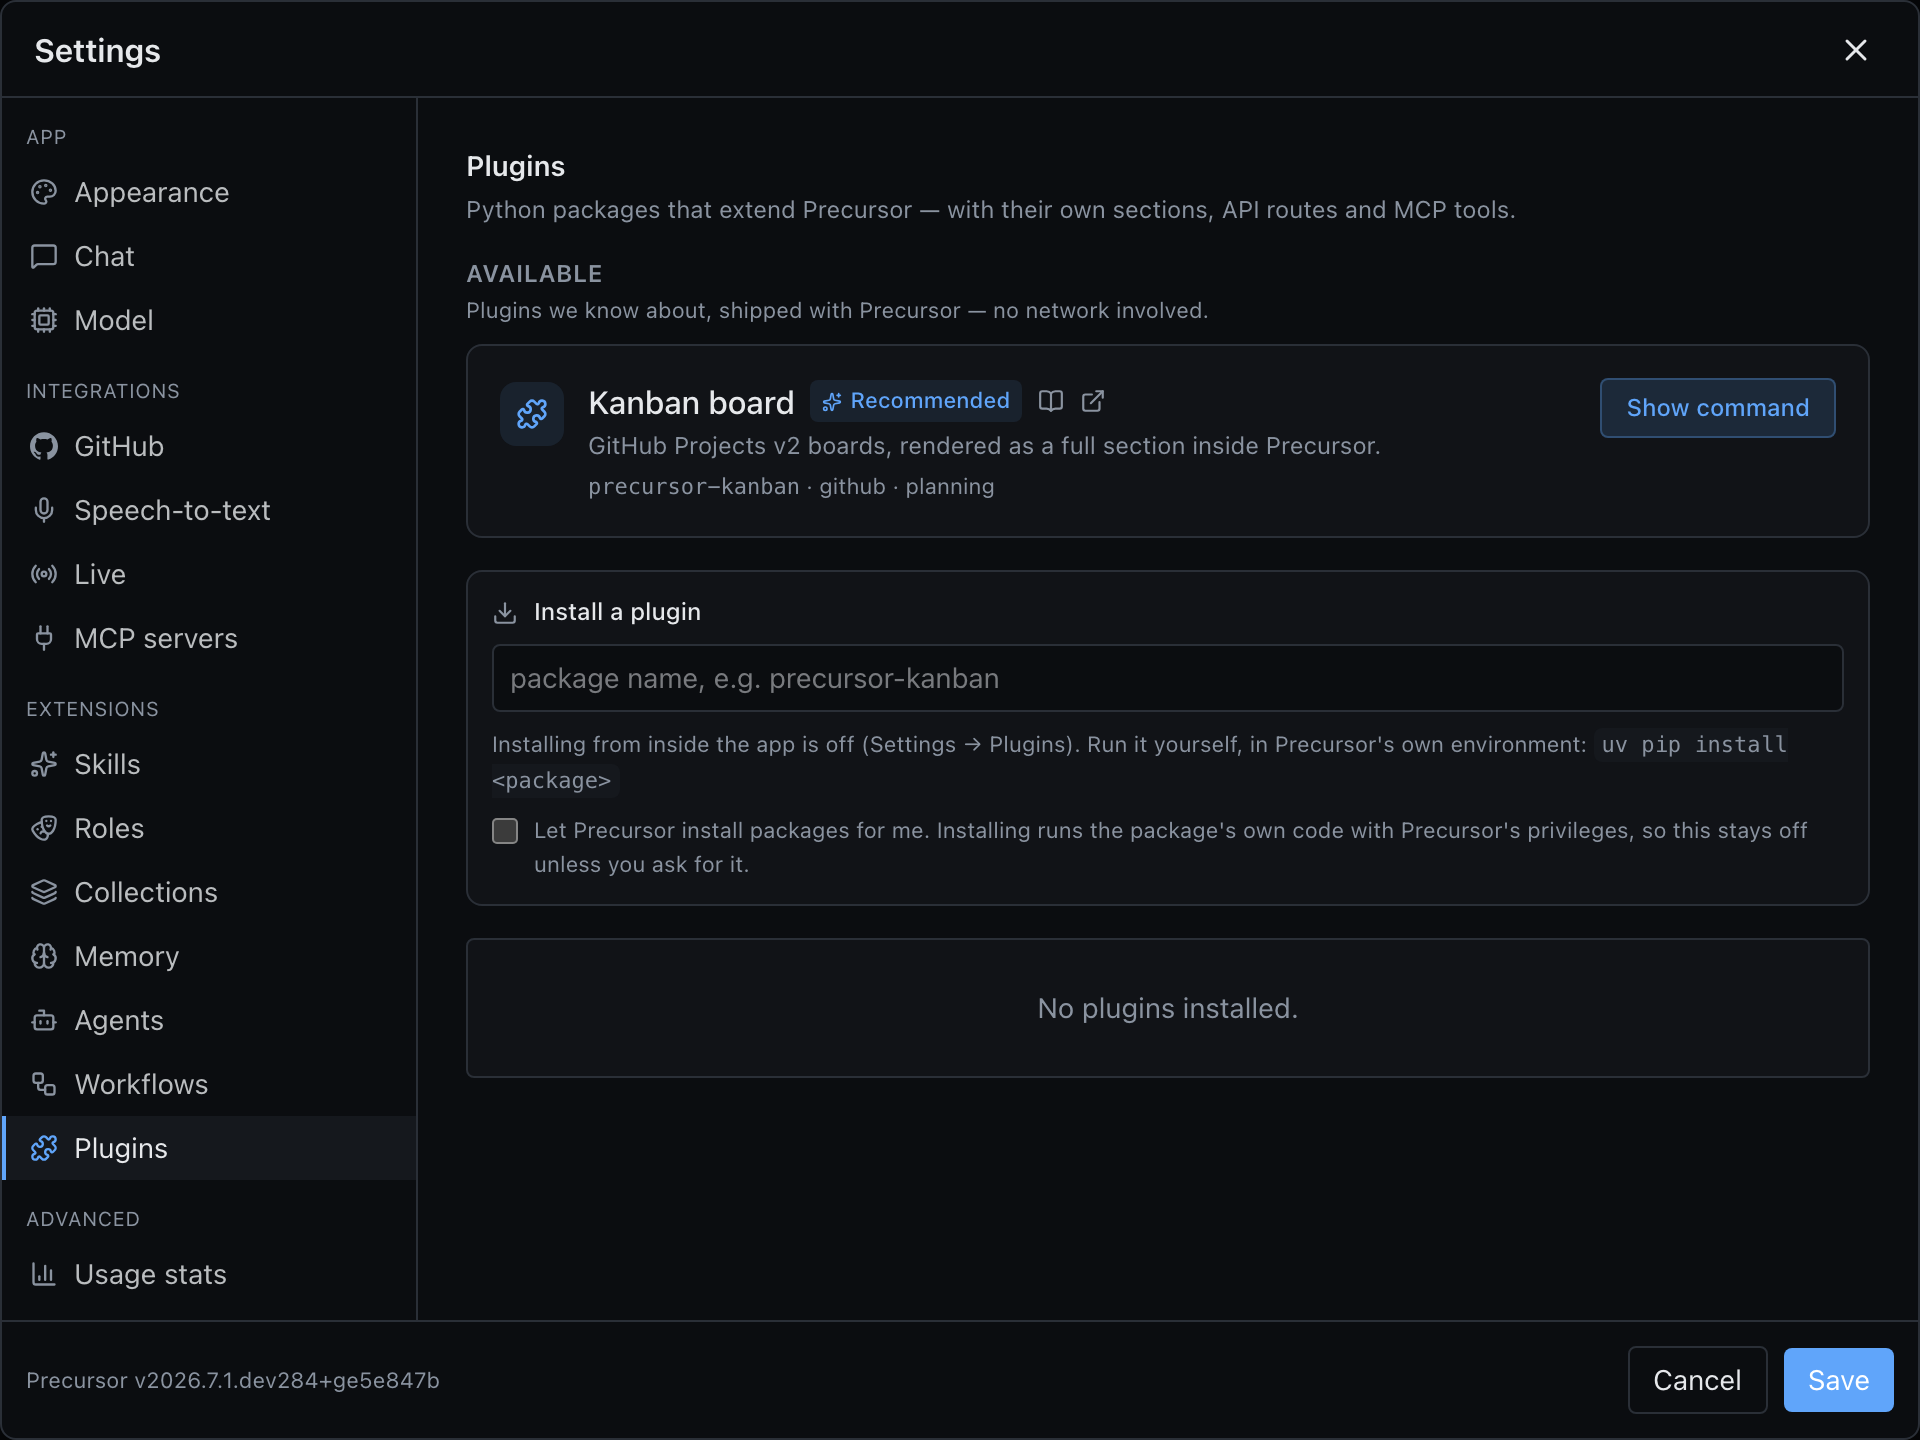
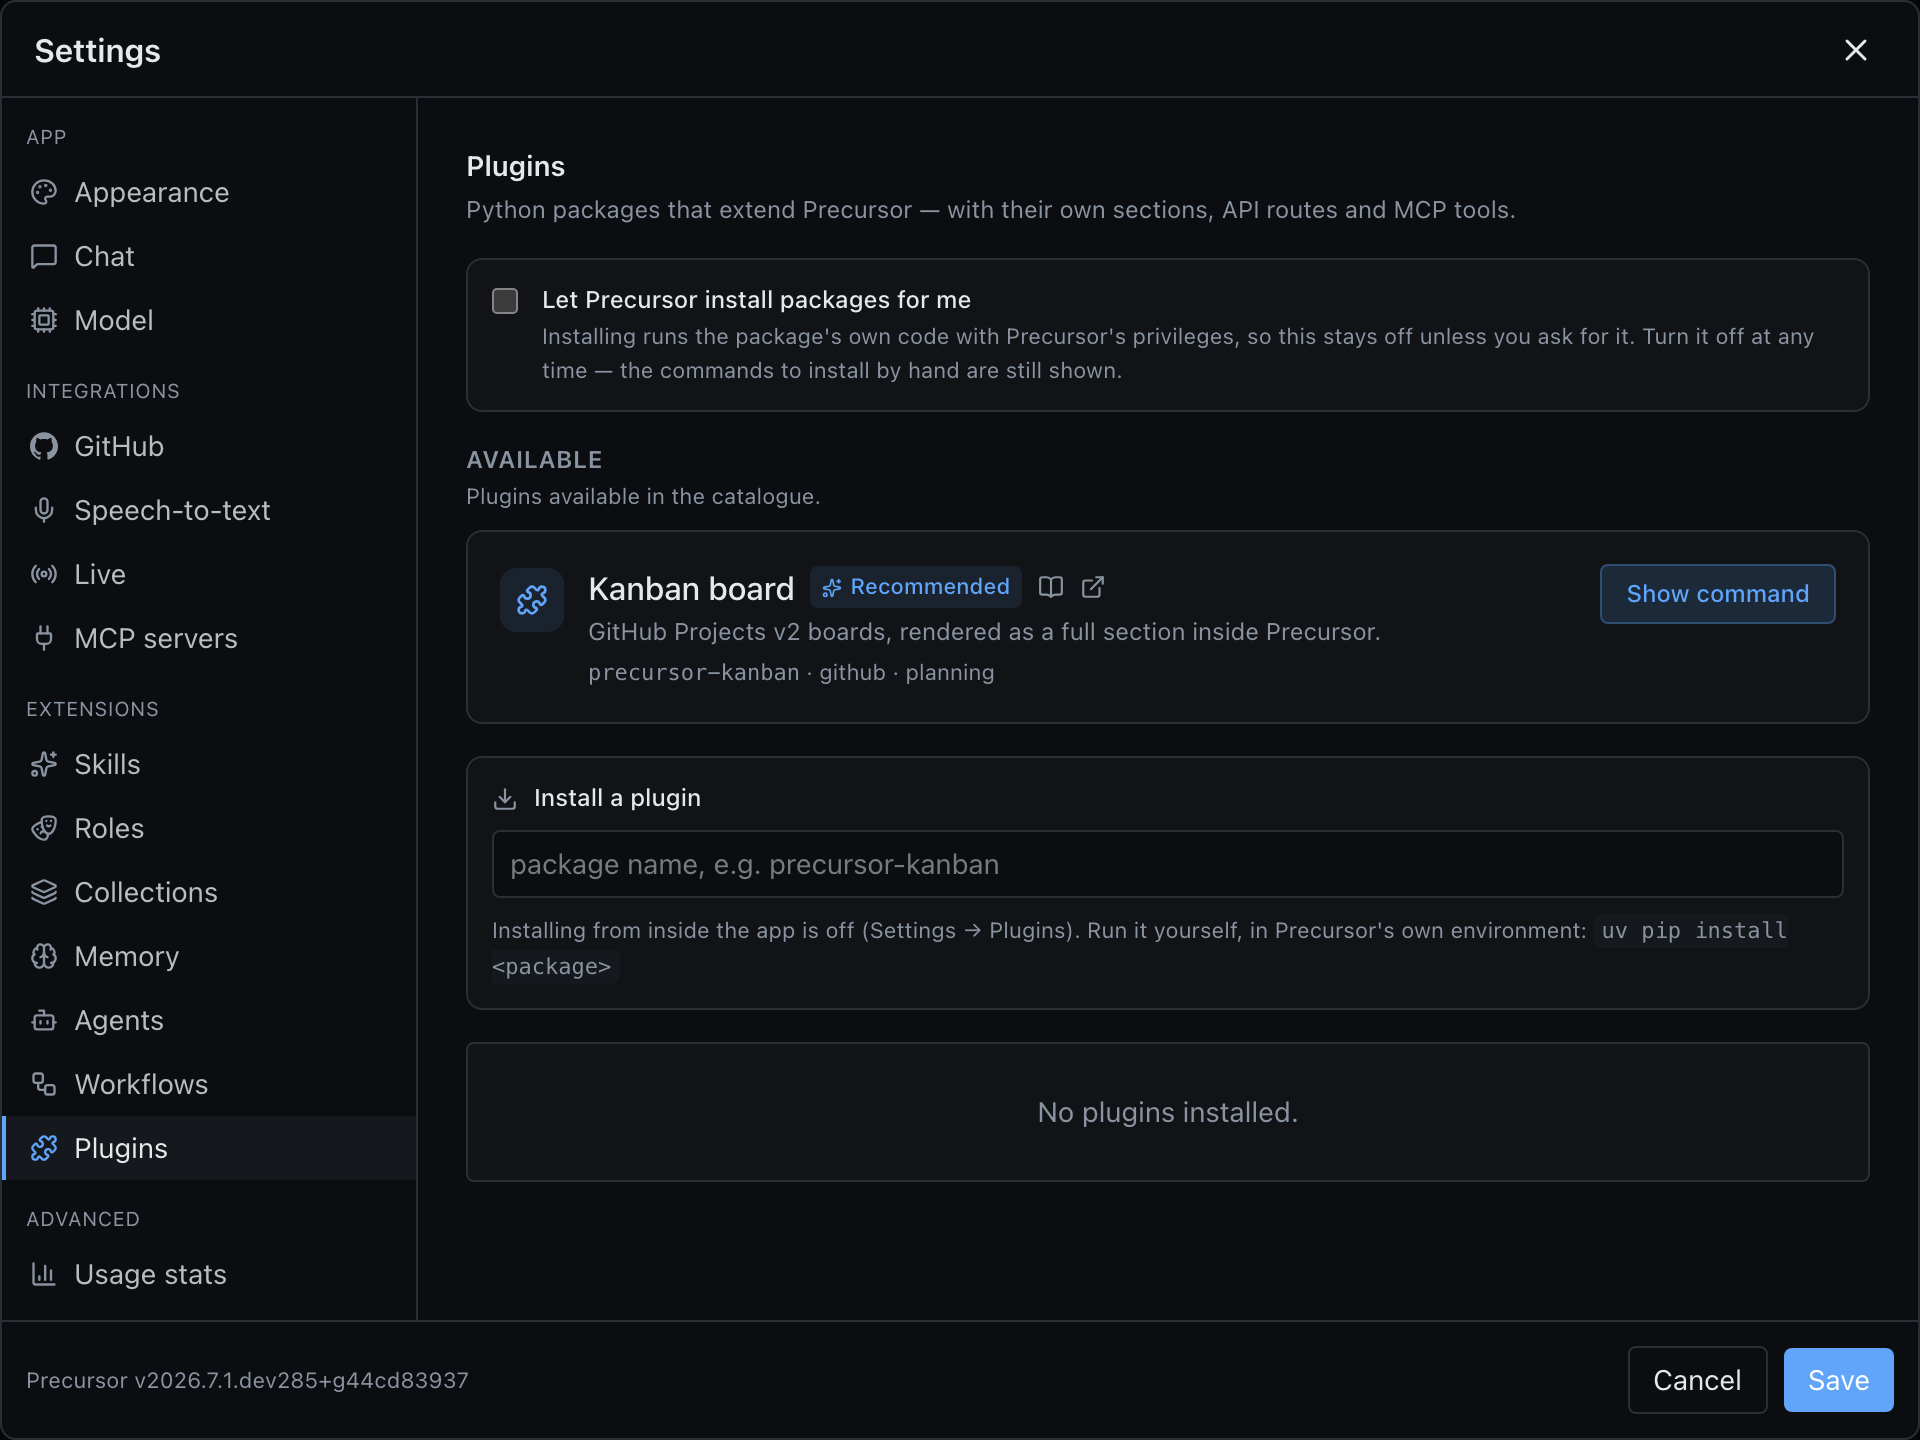
fix(plugins): make the install permission revocable, and simplify the catalogue copy
Two things the catalogue panel got wrong.

**The consent could be granted but never withdrawn.** The "Let Precursor
install packages for me" checkbox lived inside the install box and was rendered
*only while the permission was off*, with a hardcoded `checked={false}` and a
handler that could only ever write `true`. Ticking it therefore made the control
disappear, leaving no way back short of editing the settings table. Since the
thing it authorises is running a package's own code with Precursor's
privileges, that is precisely the switch that must stay reachable: a permission
you cannot revoke is not a permission. It now sits at the top of the panel as
its own row, reflects the current setting, and toggles both ways.

It still hides where the app could not install regardless — not on loopback, or
no installer present — because there is nothing to consent to there, and the
install box already explains that case in context.

**The catalogue's subtitle explained an implementation detail.** "Plugins we
know about, shipped with Precursor — no network involved" answered a question
nobody standing in the panel was asking. The fact that the catalogue is bundled
rather than fetched matters — it is why an entry is reviewed before it ships —
but it belongs in the docs, which say it. The list now just says what it is.

Copilot-Session: 098cc4a9-f80f-423a-a487-50223fcf3742

diff --git a/frontend/src/components/PluginsSettings.tsx b/frontend/src/components/PluginsSettings.tsx
@@ -67,18 +67,21 @@ export function PluginsSettings() {
   }, [load]);
 
   /**
-   * Turn the in-app installer on.
+   * Turn the in-app installer on or off.
    *
    * Off by default because installing a package runs its code with Precursor's
    * privileges and the app has no authentication of its own — so this is an
-   * explicit, deliberate act rather than something a stray request can do.
+   * explicit, deliberate act rather than something a stray request can do. It
+   * is also revocable: the consent lives at the top of the panel and stays
+   * visible once granted, because permission you can grant but not withdraw is
+   * not really permission.
    */
-  async function enableInstalling() {
+  async function setInstallPermission(enabled: boolean) {
     try {
-      await api.settings.update({ plugin_install_enabled: true });
+      await api.settings.update({ plugin_install_enabled: enabled });
       setEnv(await api.plugins.environment());
     } catch (e) {
-      setError(apiErrorMessage(e, "Could not enable in-app installing"));
+      setError(apiErrorMessage(e, "Could not change the install permission"));
     }
   }
 
@@ -199,6 +202,11 @@ export function PluginsSettings() {
         </p>
       </div>
 
+      <InstallPermission
+        env={env}
+        onChange={(enabled) => void setInstallPermission(enabled)}
+      />
+
       {restartNeeded && (
         <div className="flex items-center gap-3 rounded border border-amber-500/40 bg-amber-500/10 px-3 py-2">
           <RefreshCw
@@ -244,7 +252,6 @@ export function PluginsSettings() {
         onPkgChange={setPkg}
         installing={installing !== null}
         onInstall={() => void installPackage(pkg.trim(), true)}
-        onEnableInstalling={() => void enableInstalling()}
       />
 
       {plugins.length === 0 ? (
@@ -380,7 +387,7 @@ function Catalog({
           Available
         </h4>
         <p className="text-[11px] text-muted">
-          Plugins we know about, shipped with Precursor — no network involved.
+          Plugins available in the catalogue.
         </p>
       </div>
       <ul className="flex flex-col gap-3">
@@ -507,14 +514,12 @@ function InstallBox({
   onPkgChange,
   installing,
   onInstall,
-  onEnableInstalling,
 }: {
   env: PluginEnvironment | null;
   pkg: string;
   onPkgChange: (v: string) => void;
   installing: boolean;
   onInstall: () => void;
-  onEnableInstalling: () => void;
 }) {
   if (env === null) return null;
 
@@ -556,22 +561,47 @@ function InstallBox({
             : "Run it yourself, in Precursor's own environment:"}{" "}
         <code className="rounded bg-surface px-1 py-0.5">{command}</code>
       </p>
-      {!env.can_install && env.installable_here && (
-        <label className="flex cursor-pointer items-start gap-2 text-[11px] text-muted">
-          <input
-            type="checkbox"
-            checked={false}
-            onChange={() => onEnableInstalling()}
-            className="mt-0.5 accent-accent"
-          />
-          <span>
-            Let Precursor install packages for me. Installing runs the package's
-            own code with Precursor's privileges, so this stays off unless you
-            ask for it.
-          </span>
-        </label>
-      )}
     </div>
+  );
+}
+
+/**
+ * The standing permission for Precursor to run an installer on your behalf.
+ *
+ * Deliberately at the top of the panel and always visible once it applies,
+ * rather than tucked inside the install box and rendered only while off.
+ * Installing runs a package's own code with Precursor's privileges, so the
+ * consent it represents has to be as easy to withdraw as it was to give — a
+ * switch that only appears when it is off can be turned on and never off again.
+ */
+function InstallPermission({
+  env,
+  onChange,
+}: {
+  env: PluginEnvironment | null;
+  onChange: (enabled: boolean) => void;
+}) {
+  // Nothing to consent to where the app could never install anyway (not on
+  // loopback, or no installer present) — the panel explains that in context.
+  if (env === null || !env.installable_here) return null;
+
+  return (
+    <label className="flex cursor-pointer items-start gap-3 rounded-lg border border-border bg-surface/60 p-3">
+      <input
+        type="checkbox"
+        checked={env.can_install}
+        onChange={(e) => onChange(e.target.checked)}
+        className="mt-0.5 shrink-0 accent-accent"
+      />
+      <span className="min-w-0 flex flex-col gap-0.5">
+        <span className="text-xs font-medium">Let Precursor install packages for me</span>
+        <span className="text-[11px] text-muted">
+          Installing runs the package's own code with Precursor's privileges, so
+          this stays off unless you ask for it. Turn it off at any time — the
+          commands to install by hand are still shown.
+        </span>
+      </span>
+    </label>
   );
 }
 

diff --git a/CHANGELOG.md b/CHANGELOG.md
@@ -101,6 +101,14 @@ latest git tag (`v<version>`) by hatch-vcs at build time. See
 
 ### Fixed
 
+- **The in-app installer's consent could be granted but never withdrawn.** The
+  "Let Precursor install packages for me" checkbox lived inside the install box
+  and was rendered *only while the permission was off*, so ticking it made it
+  disappear — leaving no way to turn it back off short of editing the database.
+  It now sits at the top of **Settings → Plugins** and stays visible, reflecting
+  and toggling the setting in both directions. A permission you can't revoke
+  isn't really a permission.
+
 - **A WorkIQ token is now renewed when the keep-alive says so, not 30 seconds
   before it dies.** Two thresholds decided "renew this" and they disagreed. The
   keep-alive opened a session once a token was within five minutes of expiring;

diff --git a/docs/plugins.md b/docs/plugins.md
@@ -365,7 +365,8 @@ whoever runs Precursor, and Precursor has no authentication of its own. So the
    boundary: a page on an attacker's domain that DNS-rebinds to `127.0.0.1` is
    same-origin to the browser, so no CORS preflight ever runs;
 3. the user must switch **Settings → Plugins → "Let Precursor install packages
-   for me"** on. It is off by default.
+   for me"** on. It is off by default, sits at the top of the panel, and stays
+   visible once granted so it can be withdrawn as easily as it was given.
 
 Reading which plugins exist, and enabling or disabling them, is not gated — none
 of that executes anyone's code. With the installer off, the panel still shows the

diff --git a/website/reference/plugins.md b/website/reference/plugins.md
@@ -374,7 +374,8 @@ whoever runs Precursor, and Precursor has no authentication of its own. So the
    boundary: a page on an attacker's domain that DNS-rebinds to `127.0.0.1` is
    same-origin to the browser, so no CORS preflight ever runs;
 3. the user must switch **Settings → Plugins → "Let Precursor install packages
-   for me"** on. It is off by default.
+   for me"** on. It is off by default, sits at the top of the panel, and stays
+   visible once granted so it can be withdrawn as easily as it was given.
 
 Reading which plugins exist, and enabling or disabling them, is not gated — none
 of that executes anyone's code. With the installer off, the panel still shows the

diff --git a/website/features/plugins.md b/website/features/plugins.md
@@ -81,8 +81,9 @@ Disabling, by contrast, is instant.
 Installing a package runs its code with Precursor's privileges, and the app has
 no authentication of its own — so the in-app installer is **off by default**, only
 answers requests addressed to Precursor's own localhost address, and has to be
-switched on in the panel. Listing and toggling plugins is always available; so is
-running the command yourself.
+switched on at the top of the panel. That switch stays visible once granted, so
+you can withdraw the permission as easily as you gave it. Listing and toggling
+plugins is always available; so is running the command yourself.
 :::
 
 ## How the UI works
